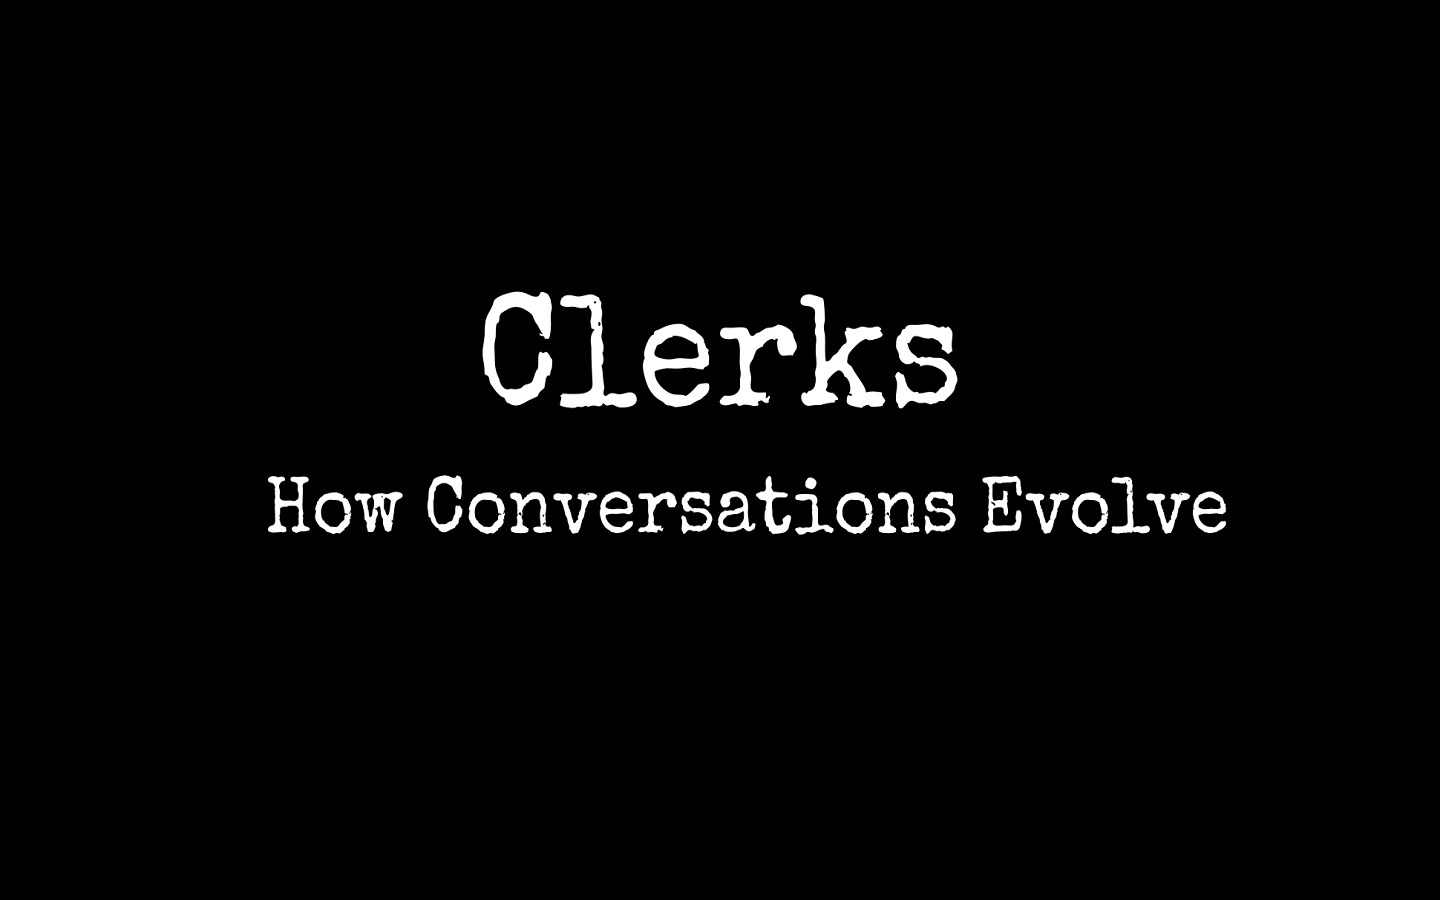
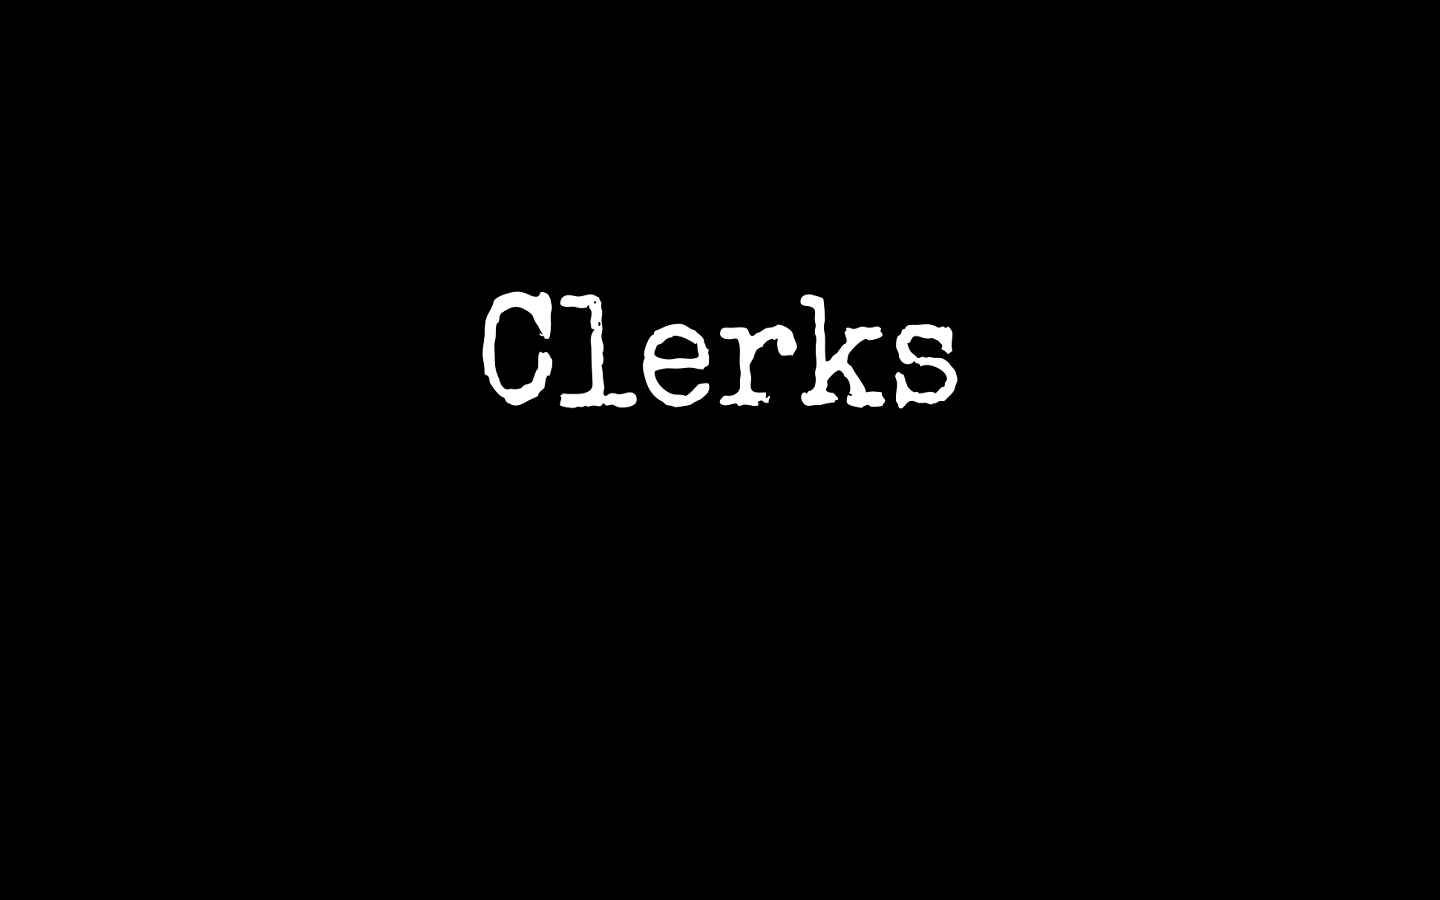
Adjusted Clerks title

Changed region(s): [[0.1875, 0.5289, 0.875, 0.5911]]

diff --git a/index.html b/index.html
@@ -65,7 +65,7 @@
 					<section class="spotlight style1 orient-right content-align-left image-position-center onscroll-image-fade-in">
 						<div class="content">
 							<h2>Video! </h2>
-							<p>Now I can officially call myself a video essayist. In my first (actually decent) video, I talk about a few of the many things that makes the 1994 cult classic Clerks so special.</p>
+							<p>Now I can officially call myself a video essayist. In my first (actually decent) video, I talk about a conversation in the 1994 cult classic Clerks and how conversations evolve both in film and in real life.</p>
 							<ul class="actions stacked">
 								<li><a href="#" class="button">Learn More</a></li>
 							</ul>
